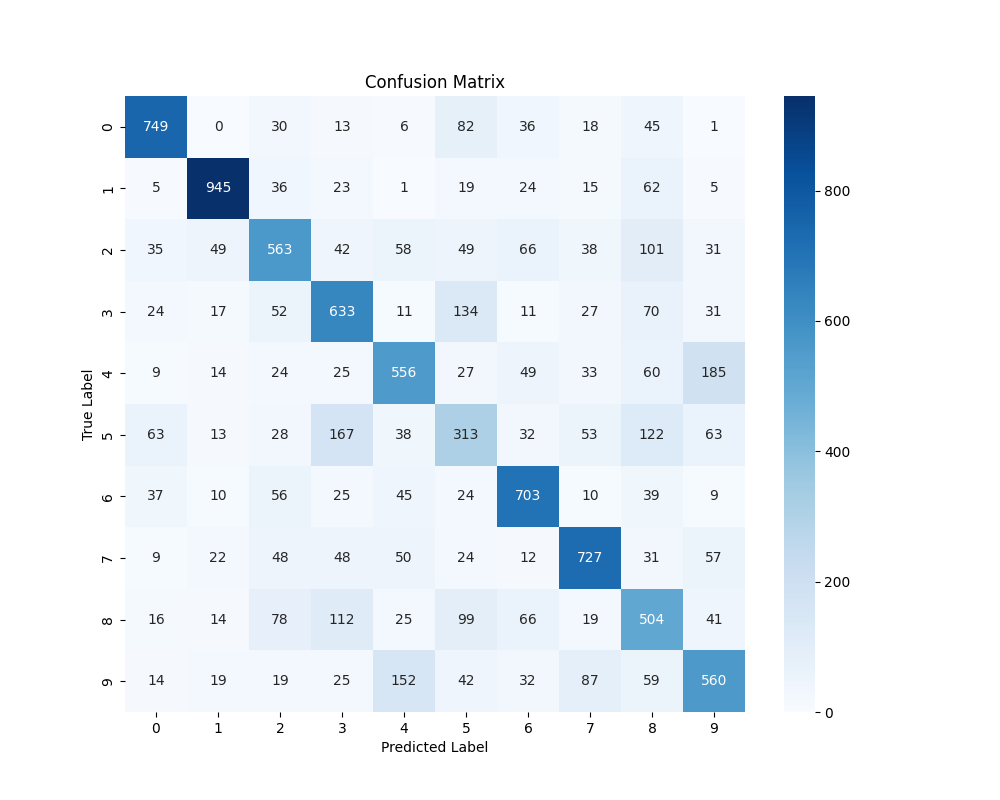
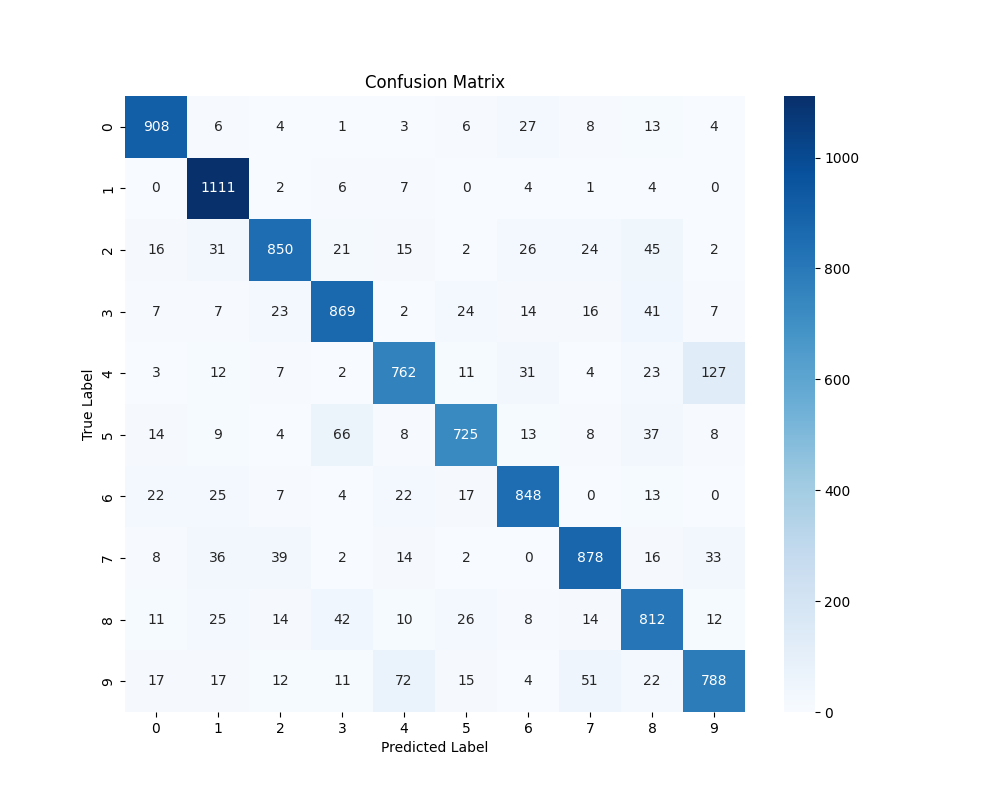
update

diff --git a/main.py b/main.py
@@ -1,6 +1,7 @@
 from dataset.dataloader import Dataloader
+
 from mine.model import Sequantial, Model
-from mine.module import Conv2D, Flatten, Linear, MaxPooling, ReLU
+from mine.module import Conv2D, Flatten, Linear, MaxPooling, ReLU, BatchNorm1D
 from mine.loss import CrossEntropyLoss, softmax
 
 from tqdm import tqdm
@@ -19,7 +20,8 @@ def MyNN():
         ReLU(),
         Linear(h1_size, h2_size),
         ReLU(),
-        Linear(h2_size, 10)
+        Linear(h2_size, 10),
+        BatchNorm1D()
     ])
     return model
 
@@ -33,29 +35,43 @@ def MyCNN():
         MaxPooling(),                   # n 5 4 4
         Flatten(),                      # n 80
         Linear(80, 10),
+        BatchNorm1D()
     ])
     return model
 
-def drawLosses(train_loss_values, test_loss_values):
+def MyCNN2():
+    model = Sequantial([                # n 1 28 28
+        Conv2D(1, 10, kernel_size=5),   # n 10 24 24
+        ReLU(),
+        MaxPooling(),                   # n 10 12 12
+        Conv2D(10, 10, kernel_size=5),  # n 10 8 8
+        ReLU(),
+        MaxPooling(),                   # n 10 4 4
+        Flatten(),                      # n 160
+        Linear(160, 10),
+        BatchNorm1D()
+    ])
+    return model
+
+
+def PrintLosses(train_loss_values, test_loss_values):
+    term = 50
+
     loss_values = np.array(train_loss_values)
-    n = 100
-    term = len(loss_values) // n
+    n = len(loss_values) // term
     split_values = np.split(loss_values, n)
     mean_values = np.mean(split_values, axis=1)
     x_values = np.arange(0, len(loss_values), term)
 
-    # Plot the Train Loss with Mean ± Standard Deviation
     plt.figure()
     plt.plot(x_values, mean_values, label="Train Loss", alpha=0.6, color='b')
 
     loss_values = np.array(test_loss_values)
-    n = 100
-    term = len(loss_values) // n
+    n = len(loss_values) // term
     split_values = np.split(loss_values, n)
     mean_values = np.mean(split_values, axis=1)
     x_values = np.arange(0, len(loss_values), term)
 
-    # Plot the Train Loss with Mean ± Standard Deviation
     plt.plot(x_values, mean_values, label="Test Loss", alpha=0.6, color='r')
 
     # plt.yscale('log')
@@ -95,7 +111,6 @@ def train(model: Model, train_dataloader: Dataloader, test_dataloader: Dataloade
                 test_data = test_dataloader[test_idx]
                 tx, ty = test_data
                 ty_pred = model.forward(tx)
-                print(ty_pred)
                 tloss, _ = loss_fn(ty, ty_pred, no_grad=True)
 
                 test_loss_values.append(tloss)
@@ -110,7 +125,9 @@ def train(model: Model, train_dataloader: Dataloader, test_dataloader: Dataloade
         avg_test_loss = total_test_loss / len(train_dataloader)
         print(f"Epoch {epoch+1} completed. Average Train Loss: {avg_train_loss:.4f}, Averge Test Loss: {avg_test_loss:.4f}")
 
-        drawLosses(train_loss_values, test_loss_values)
+        PrintLosses(train_loss_values, test_loss_values)
+        PrintCM(model, test_dataloader)
+        PrintTop3(model, test_dataloader)
         
 def PrintCM(model: Model, test_dataloader: Dataloader):
     y_true = []
@@ -125,10 +142,8 @@ def PrintCM(model: Model, test_dataloader: Dataloader):
         y_true.extend(np.argmax(ty, axis=1))
         y_pred.extend(np.argmax(ty_pred, axis=1))
 
-    # Confusion Matrix 생성
     cm = confusion_matrix(y_true, y_pred)
     
-    # Confusion Matrix 시각화
     plt.figure(figsize=(10, 8))
     sns.heatmap(cm, annot=True, fmt="d", cmap="Blues", xticklabels=np.unique(y_true), yticklabels=np.unique(y_true))
     plt.xlabel("Predicted Label")
@@ -141,30 +156,25 @@ def PrintCM(model: Model, test_dataloader: Dataloader):
 
 
 def PrintTop3(model: Model, test_dataloader: Dataloader):
-    # 각 숫자 (0-9)에 대해 상위 3개의 확률과 이미지를 저장할 배열
-    top3_prob = np.zeros((10, 3))  # 각 클래스의 상위 3개 확률을 저장할 배열
-    top3_image = np.zeros((10, 3), dtype=object)  # 각 클래스의 상위 3개 이미지를 저장할 배열
+    top3_prob = np.zeros((10, 3))
+    top3_image = np.zeros((10, 3), dtype=object)
 
     print("\nGenerating Top 3 Images")
     for test_data in tqdm(test_dataloader, desc="Finding Top 3 Images"):
-        tx, ty = test_data  # tx: 이미지, ty: 실제 라벨
+        tx, ty = test_data
 
-        # 모델로 예측
         ty_pred = model.forward(tx)
 
         ty_pred_probs = np.max(softmax(ty_pred), axis=1)
         ty_pred_index = np.argmax(ty_pred, axis=1)
 
-        # 각 이미지에 대한 예측 확률
         for idx in range(len(ty_pred_index)):
             pred_prob = ty_pred_probs[idx]
             pred_index = ty_pred_index[idx]
-            image = tx[idx]  # 해당 이미지
+            image = tx[idx]
 
-            # 만약 현재 확률이 상위 3개에 포함된다면 업데이트
             for i in range(3):
                 if pred_prob > top3_prob[pred_index, i]:
-                    # i번째 확률보다 높다면, 해당 확률과 이미지를 그 자리에 넣고, 나머지 하나씩 밀기
                     top3_prob[pred_index, i+1:] = top3_prob[pred_index, i:-1]
                     top3_image[pred_index, i+1:] = top3_image[pred_index, i:-1]
 
@@ -172,35 +182,30 @@ def PrintTop3(model: Model, test_dataloader: Dataloader):
                     top3_image[pred_index, i] = image
                     break
 
-    fig, axes = plt.subplots(10, 3, figsize=(12, 30))  # 10행 3열의 서브플롯
-    fig.suptitle("Top 3 Images for Each Digit", fontsize=16)
+    fig, axes = plt.subplots(10, 3, figsize=(12, 30))
+    fig.suptitle("Top 3 Probability", fontsize=50)
 
-    # 각 숫자에 대해 상위 3개의 이미지를 출력
     for num in range(10):
         for i in range(3):
             if top3_image[num, i] is not None:
                 axes[num, i].imshow(top3_image[num, i].squeeze(), cmap='gray')
-                axes[num, i].set_title(f"Prob: {top3_prob[num, i]:.4f}")
+                axes[num, i].set_title(f"{top3_prob[num, i]*100:3.2f}%", fontsize=30)
                 axes[num, i].axis('off')
-                
-    plt.tight_layout(rect=[0, 0, 1, 0.96])
+
+    plt.tight_layout(rect=[0, 0, 1, 0.94])
     plt.savefig(f"top_3_images.png")
     plt.close()
 
-    print("Complete")
+    print("Complete.")
 
 if __name__ == "__main__":
     batch_size = 50
-    epoch_num = 1
-    learning_rate = 1e-2
+    epoch_num = 10
+    learning_rate = 0.5
 
     train_dataloader = Dataloader('dataset', is_train=True, batch_size=batch_size) # total 60000
     test_dataloader = Dataloader('dataset', is_train=False, batch_size=batch_size) # total 10000
 
-    model = MyNN()
+    model = MyCNN2()
 
     train(model, train_dataloader, test_dataloader, epoch_num, learning_rate)
-
-    PrintCM(model, test_dataloader)
-
-    PrintTop3(model, test_dataloader)

diff --git a/mine/Module.py b/mine/Module.py
@@ -32,9 +32,9 @@ class Linear(Module):
     def backward(self, grad: np.ndarray, learning_rate: float) -> np.ndarray:
         batch_size = grad.shape[0]
 
-        dx = np.dot(grad, self.W.T)  # (batch_size, input_size)
-        dW = np.dot(self.x.T, grad) / batch_size  # (input_size, output_size)
-        db = np.sum(grad, axis=0, keepdims=True) / batch_size  # (1, output_size)
+        dx = np.dot(grad, self.W.T)
+        dW = np.dot(self.x.T, grad) / batch_size
+        db = np.sum(grad, axis=0, keepdims=True) / batch_size
 
         self.W -= learning_rate * dW
         self.b -= learning_rate * db
@@ -166,6 +166,28 @@ class MaxPooling(Module):
 
         return dx
 
+class BatchNorm1D(Module):
+    def __init__(self, epsilon=1e-5) -> None:
+        self.epsilon = epsilon
+
+    def forward(self, x: np.ndarray) -> np.ndarray:
+        batch_mean = np.mean(x, axis=0, keepdims=True)
+        self.batch_var = np.var(x, axis=0, keepdims=True)
+        self.x_normalized = (x - batch_mean) / np.sqrt(self.batch_var + self.epsilon)
+        return self.x_normalized
+    
+    def backward(self, grad: np.ndarray, learning_rate: float) -> np.ndarray:
+        N, D = grad.shape
+        
+        x_mu = self.x_normalized * np.sqrt(self.batch_var + self.epsilon)
+        inv_var = 1.0 / np.sqrt(self.batch_var + self.epsilon)
+
+        dx_normalized = grad
+        dvar = np.sum(dx_normalized * (x_mu) * (-0.5) * inv_var**3, axis=0)
+        dmean = np.sum(dx_normalized * (-inv_var), axis=0) + dvar * np.mean(-2.0 * x_mu, axis=0)        
+        dx = (dx_normalized * inv_var) + (dvar * 2.0 * x_mu / N) + (dmean / N)
+        
+        return dx
 
 class ReLU(Module):
     def forward(self, x: np.ndarray) -> np.ndarray:
